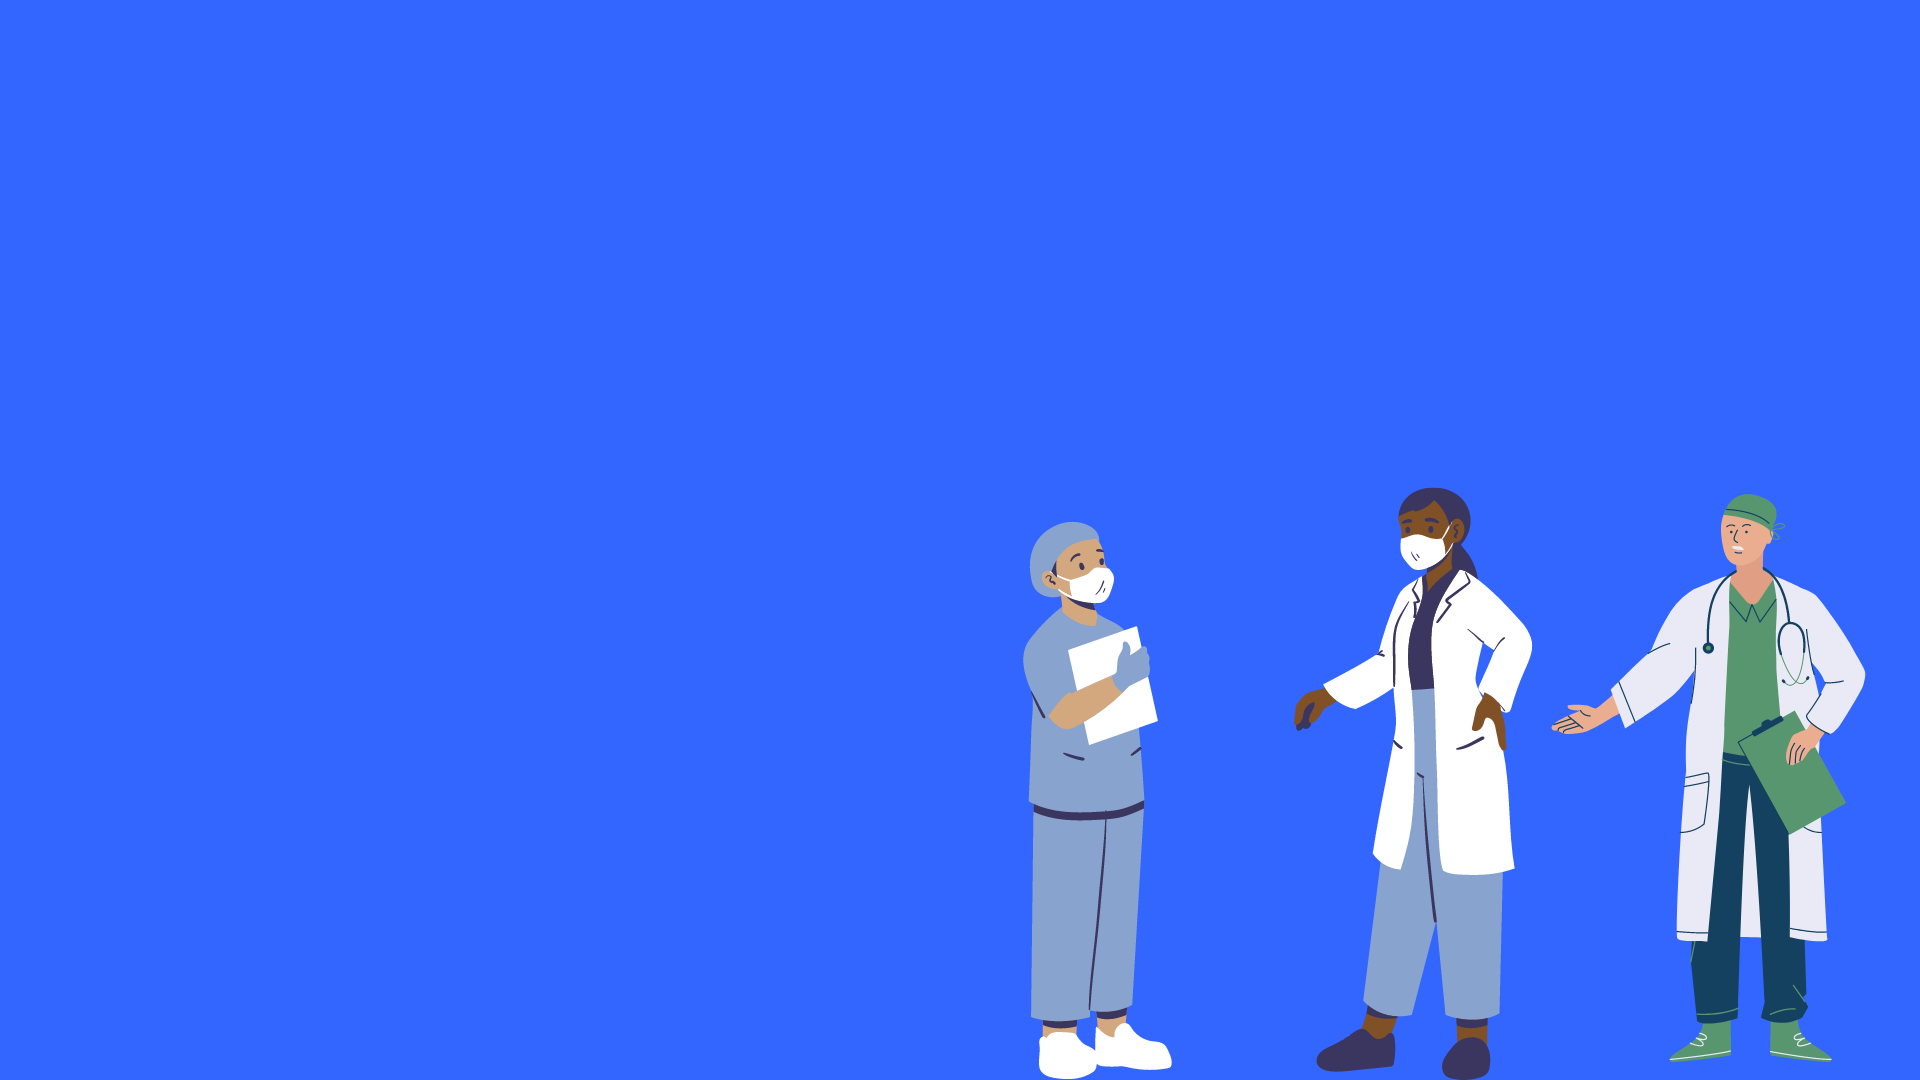
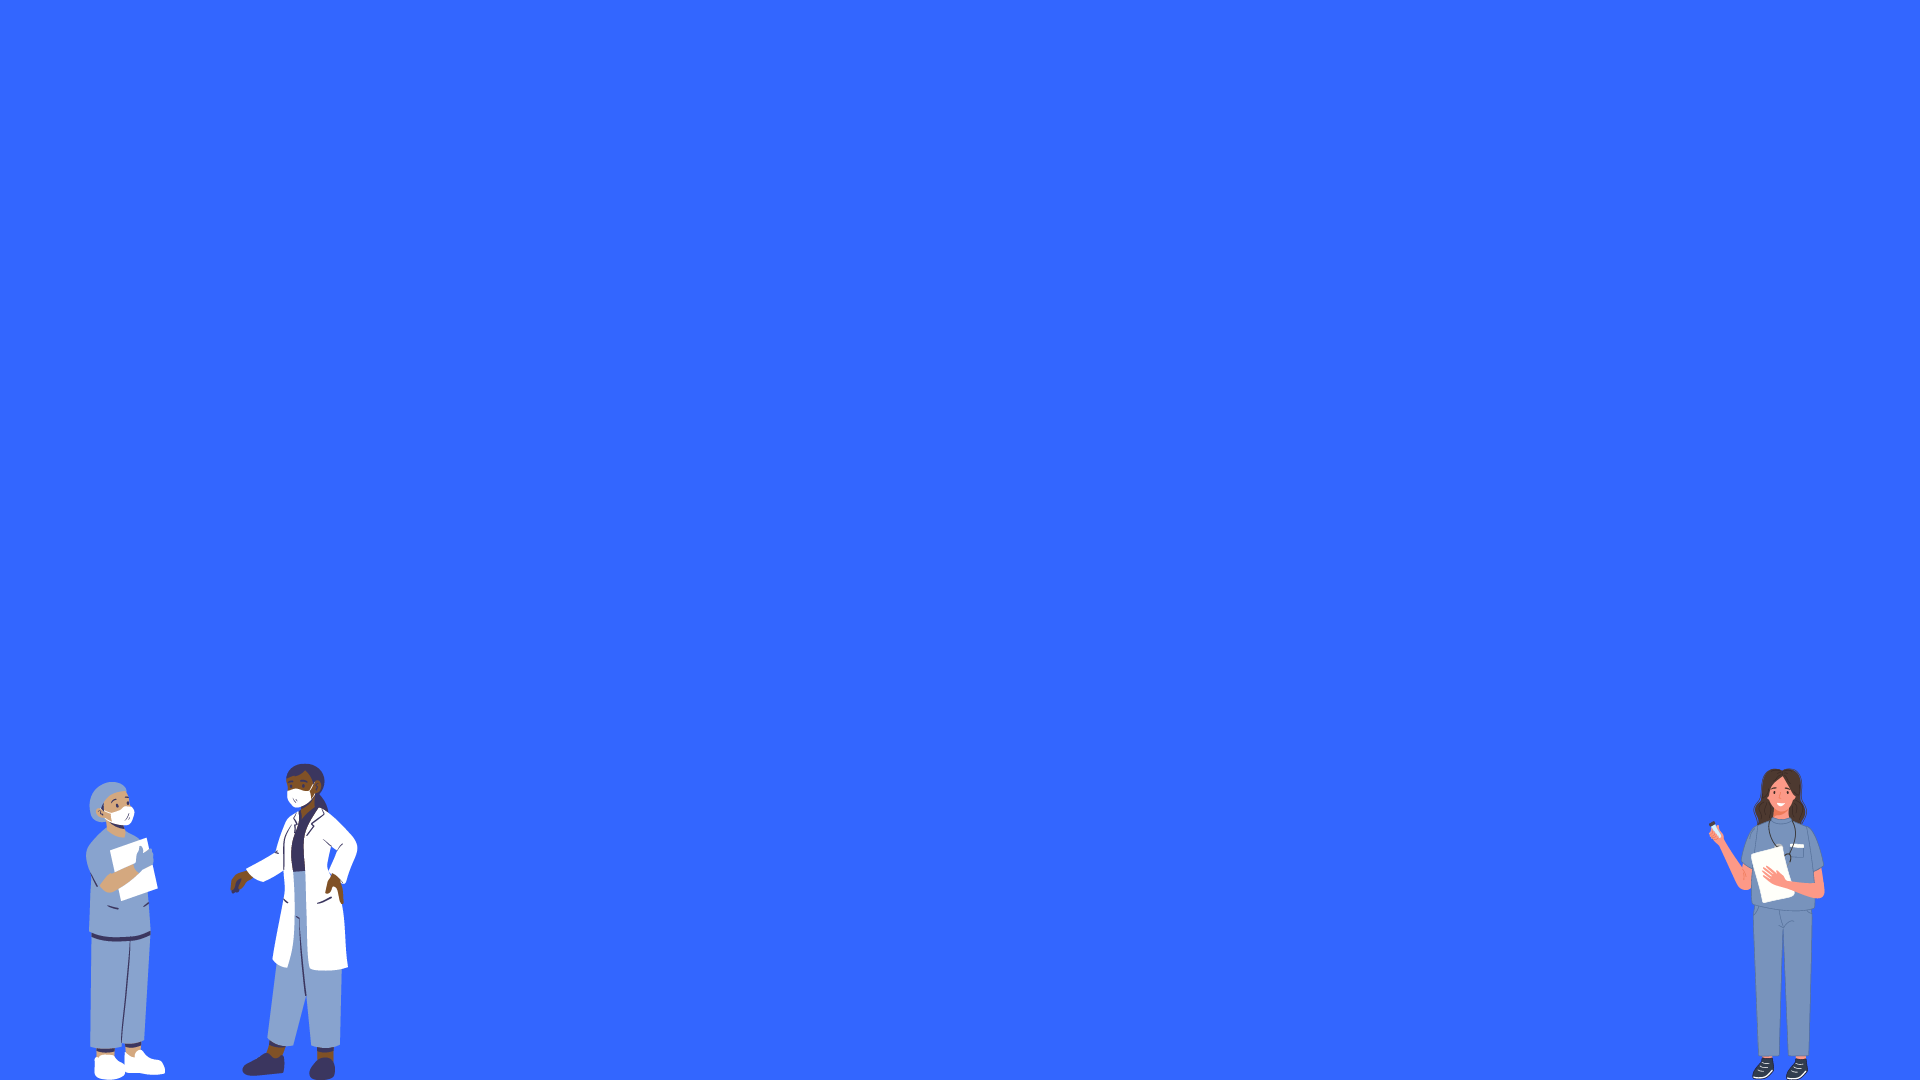
background images added

diff --git a/frontend/src/app/doctors/doctors.component.scss b/frontend/src/app/doctors/doctors.component.scss
@@ -20,7 +20,10 @@
   display: flex;
   flex-direction: column;
   height: 100%;
-  background-color: #3366ff;
+  // background-color: #3366ff;
+  background-image: url('../../images/doctors.png');
+  background-size: cover;
+  background-position: left center;
 }
 
 .table_container {

diff --git a/frontend/src/app/specialities/specialities.component.scss b/frontend/src/app/specialities/specialities.component.scss
@@ -20,7 +20,9 @@
   display: flex;
   flex-direction: column;
   height: 100%;
-  background-color: #3366ff;
+  background-image: url('../../images/medical_specialities.png');
+  background-size: cover;
+  background-position: left center;
 }
 
 .table_container {

diff --git a/frontend/src/app/files/files.component.scss b/frontend/src/app/files/files.component.scss
@@ -20,7 +20,9 @@
   display: flex;
   flex-direction: column;
   height: 100%;
-  background-color: #3366ff;
+  background-image: url('../../images/medical_records.png');
+  background-size: cover;
+  background-position: left center;
 }
 
 .table_container {

diff --git a/frontend/src/app/appointments/appointments.component.scss b/frontend/src/app/appointments/appointments.component.scss
@@ -20,7 +20,9 @@
   display: flex;
   flex-direction: column;
   height: 100%;
-  background-color: #3366ff;
+  background-image: url('../../images/appointments.png');
+  background-size: cover;
+  background-position: left center;
 }
 
 .table_container {

diff --git a/frontend/src/app/locations/locations.component.scss b/frontend/src/app/locations/locations.component.scss
@@ -20,7 +20,9 @@
   display: flex;
   flex-direction: column;
   height: 100%;
-  background-color: #3366ff;
+  background-image: url('../../images/locations.png');
+  background-size: cover;
+  background-position: left center;
 }
 
 .table_container {

diff --git a/frontend/src/app/patients/patients.component.scss b/frontend/src/app/patients/patients.component.scss
@@ -20,7 +20,9 @@
   display: flex;
   flex-direction: column;
   height: 100%;
-  background-color: #3366ff;
+  background-image: url('../../images/patients.png');
+  background-size: cover;
+  background-position: left center;
 }
 
 .table_container {

diff --git a/frontend/src/app/statistics/statistics.component.scss b/frontend/src/app/statistics/statistics.component.scss
@@ -2,7 +2,9 @@
   display: flex;
   flex-direction: column;
   height: 100%;
-  background-color: white;
+  background-image: url('../../images/statistics.png');
+  background-size: cover;
+  background-position: left center;
 }
 
 .title {
